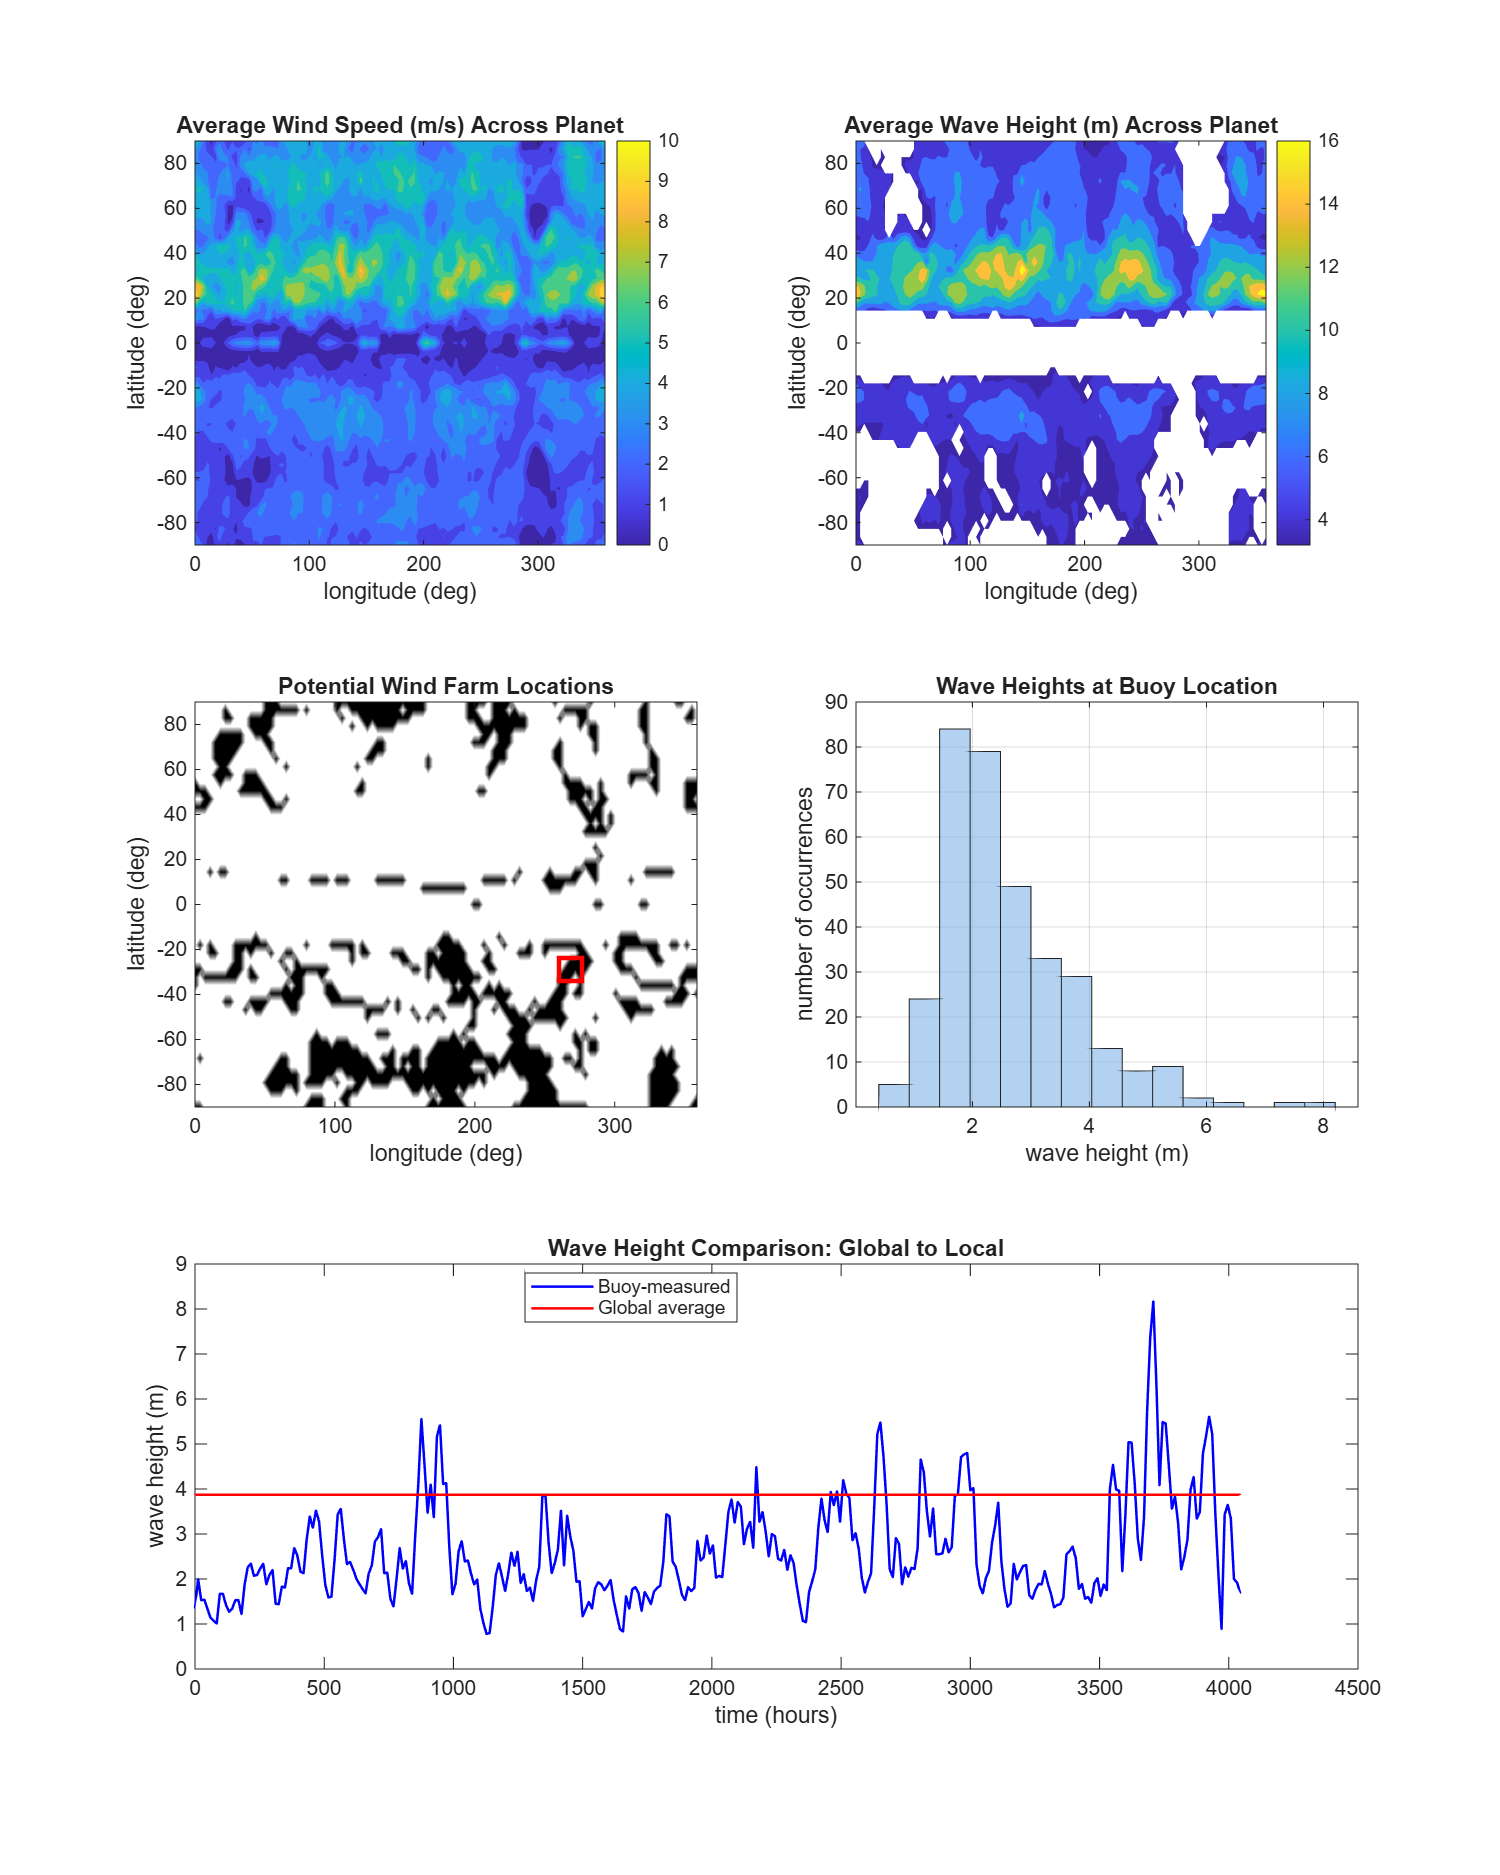
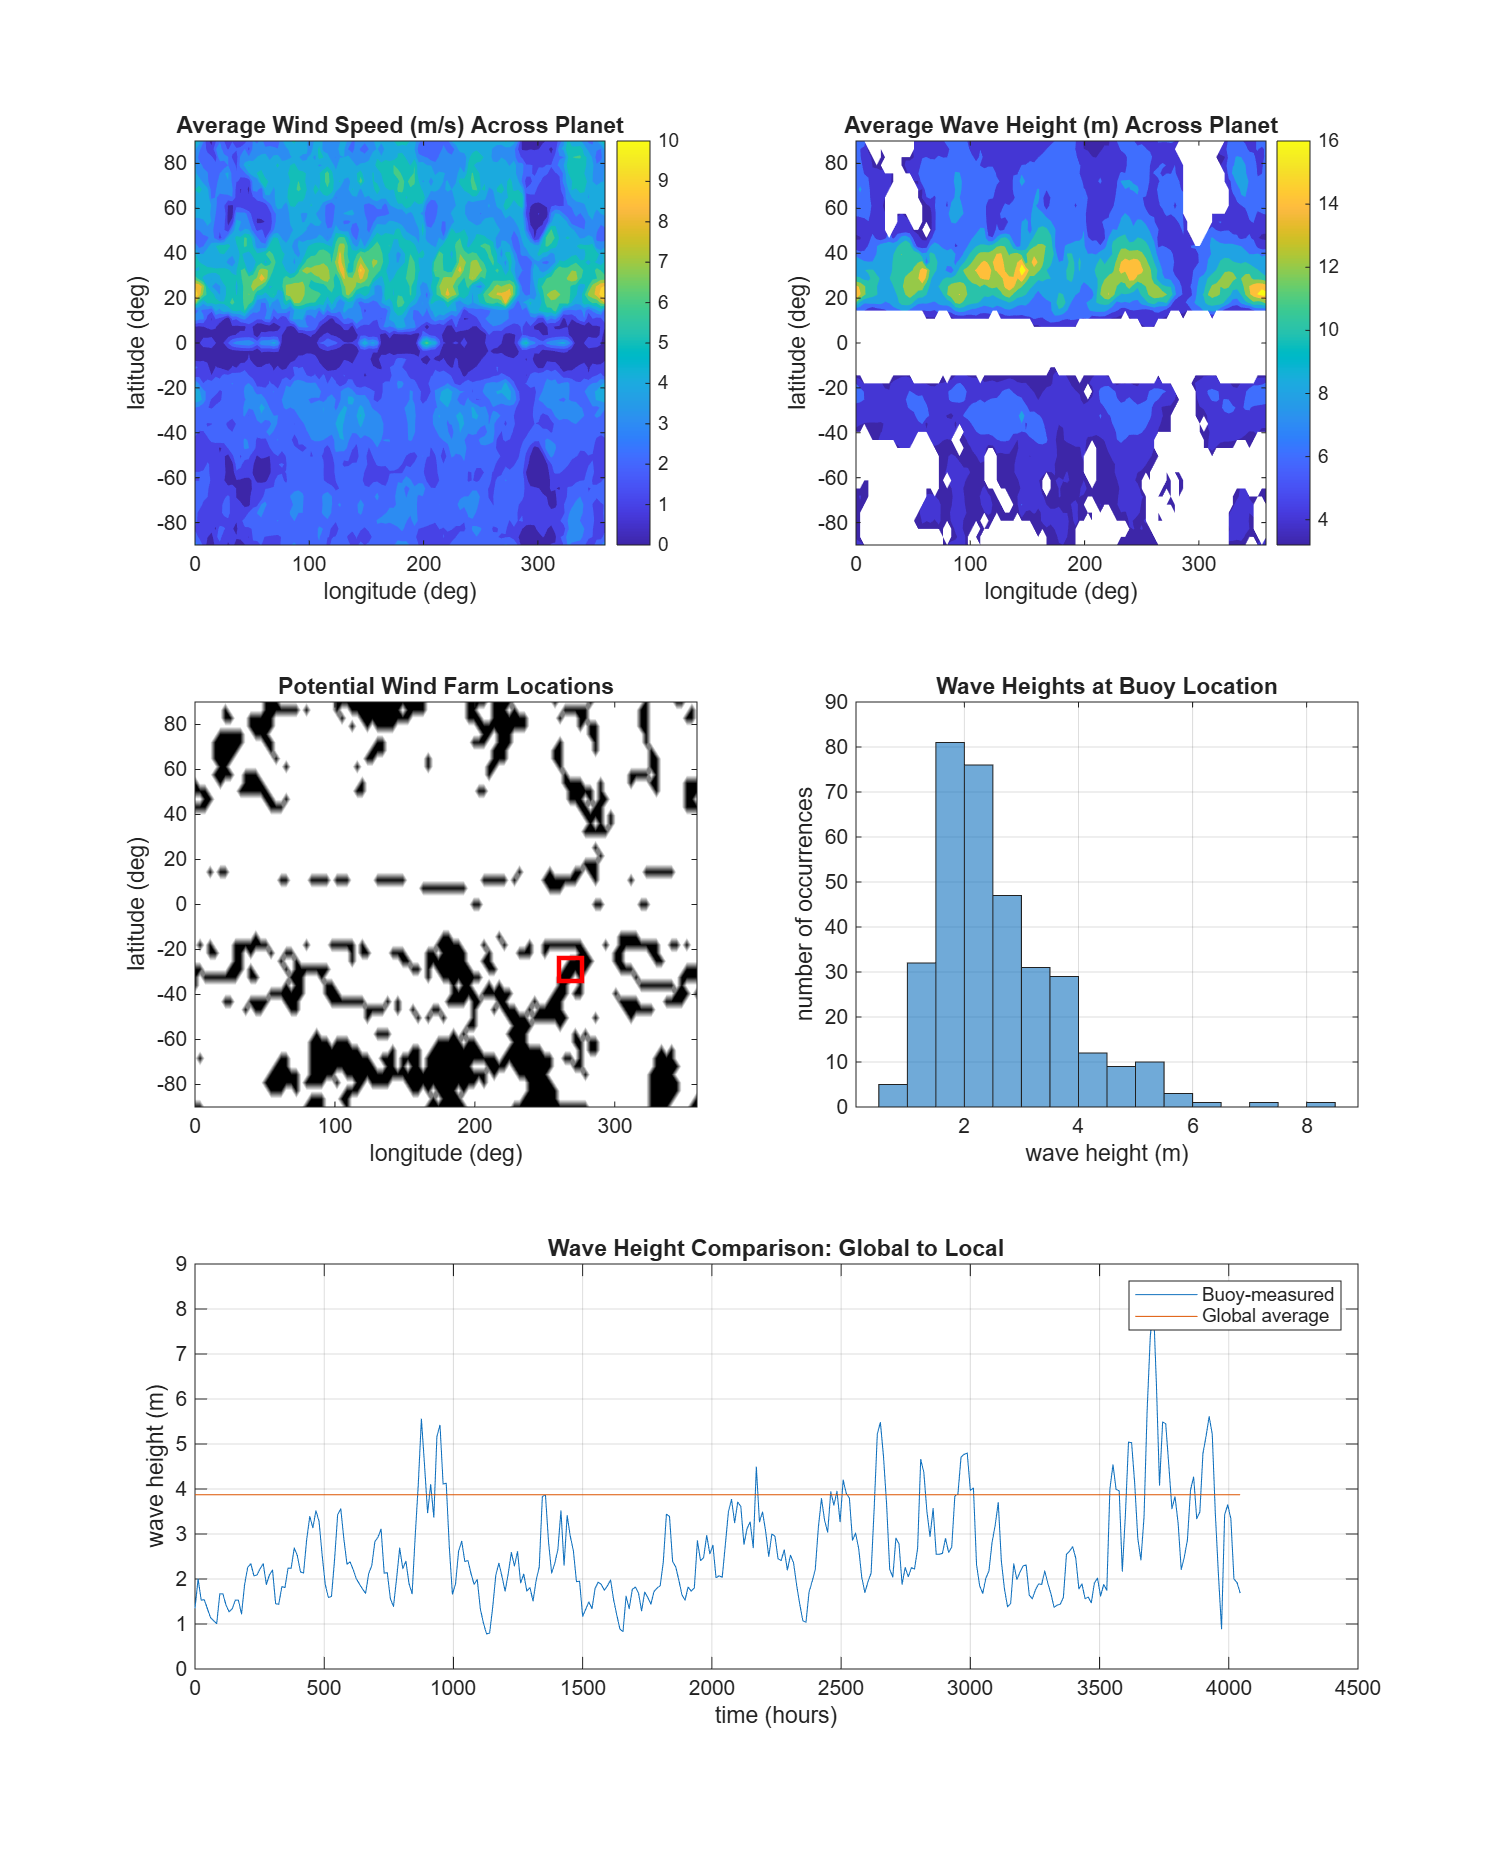
Fixed makeplots errors

diff --git a/MATLAB Project/makePlots.m b/MATLAB Project/makePlots.m
@@ -88,7 +88,7 @@ title('Potential Wind Farm Locations');
 
 % Plot 4: histogram of buoy wave heights
 subplot(3,2,4);
-histogram(buoyData(:,2), 15, 'FaceColor', [0.5 0.7 0.9]);
+histogram(buoyData(:,2));
 grid on;
 xlabel('wave height (m)');
 ylabel('number of occurrences');
@@ -97,15 +97,15 @@ title('Wave Heights at Buoy Location');
 % Plot 5: buoy vs global average wave height vs time
 subplot(3,2,[5 6]);
 localWaveHeight = waveData(buoyLoc(2), buoyLoc(3));
-plot(buoyData(:,1), buoyData(:,2), 'b', 'LineWidth', 1.2);
+plot(buoyData(:,1), buoyData(:,2));
 hold on;
-plot(buoyData(:,1), ones(size(buoyData(:,1))) * localWaveHeight, 'r', ...
-    'LineWidth', 1.2);
+plot(buoyData(:,1), ones(size(buoyData(:,1))) * localWaveHeight);
 hold off;
-legend('Buoy-measured', 'Global average', 'Location', 'best');
+legend('Buoy-measured', 'Global average', 'Location', 'northeast');
 xlabel('time (hours)');
 ylabel('wave height (m)');
 title('Wave Height Comparison: Global to Local');
+grid on;
 
 print(gcf, '-dpng', 'environmentalSummary.png');
 

diff --git a/MATLAB Project/analyzeWindFarm.m b/MATLAB Project/analyzeWindFarm.m
@@ -1,6 +1,6 @@
 % Vihaan Das 
 % 126 
-% 10/5/2026
+% 10/06/2026
 
 %------------------------------------------------------
 % AUTOGRADER INFO -- IGNORE BUT DO NOT REMOVE 
